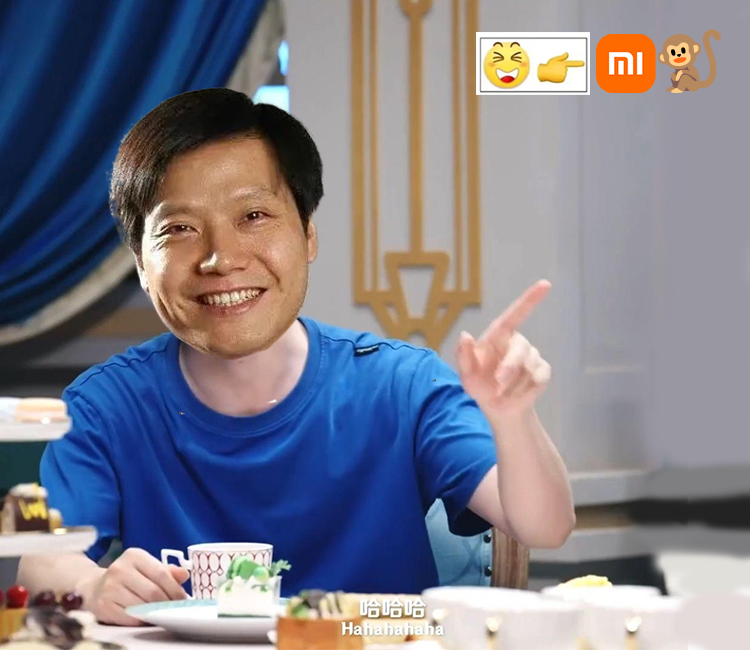
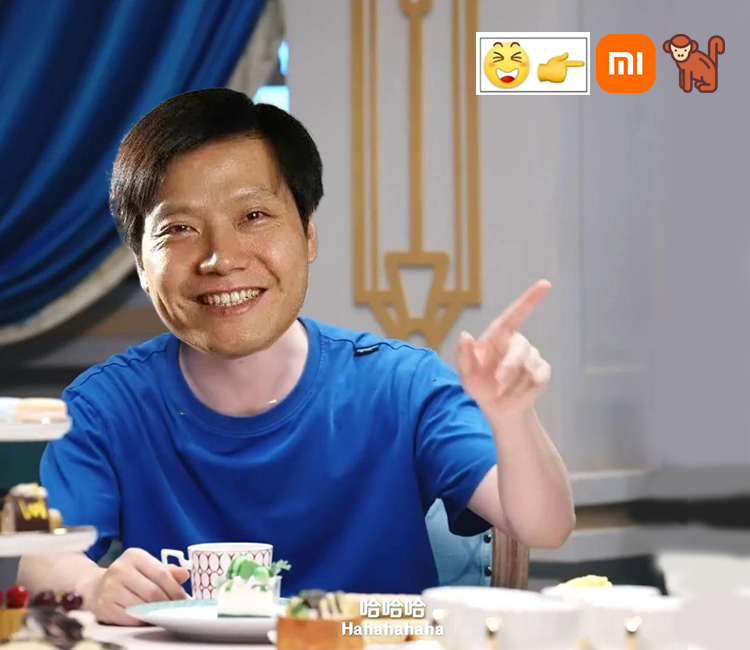
PS D:\meme> date 2025年9月23日 22:04:32 ➕😆 添加新表情 cat_lick 猫舔 ➕😆 添加新表情 horse_riding 骑马 ➕😆 添加新表情 happy_national_day 国庆节快乐 ➕😆 表情 github 改为 throwing_poop 扔史 ➕😆 添加新表情 mi_leijun_holdsign 雷军举牌 ➕😆 表情 mi_monkey 优化素材猴子图标

Changed region(s): [[0.8587, 0.0308, 0.9813, 0.1538]]

diff --git a/emoji/happy_national_day/__init__.py b/emoji/happy_national_day/__init__.py
@@ -1,0 +1,51 @@
+# 导入必要的模块
+from datetime import datetime
+from pathlib import Path
+
+from PIL.Image import Image as IMG  # 导入PIL的Image类并重命名为IMG
+from pil_utils import BuildImage  # 导入用于构建和操作图像的BuildImage类
+from meme_generator.tags import MemeTags
+
+from meme_generator import add_meme  # 导入添加meme模板的函数
+from meme_generator.utils import save_gif  # 导入保存GIF的函数
+
+# 获取当前文件所在目录的路径，并拼接images子目录路径
+img_dir = Path(__file__).parent / "images"
+
+def happy_national_day(images: list[BuildImage], texts, args):
+
+    user_head = images[0].resize((190, 160)).convert("RGBA") 
+    
+    # 初始化帧列表，用于存储每一帧图像
+    frames: list[IMG] = []
+
+    positions = [
+        (55, 92), (55, 81), (55, 76), (55, 84), 
+    ]
+
+    # 处理所有帧
+    for i in range(4):
+        frame_num = (i % 4) + 1
+        frame = BuildImage.open(img_dir / f"{frame_num}.png").convert("RGBA")
+        
+        # 创建一个新的图像，首先粘贴用户头像作为背景
+        new_frame = BuildImage.new("RGBA", frame.size)
+        new_frame.paste(user_head, positions[i], alpha=True)
+        
+        # 然后将原始帧内容粘贴到上面
+        new_frame.paste(frame, (0, 0), alpha=True)
+        
+        frames.append(new_frame.image)
+
+    # 将所有帧保存为GIF，帧间隔为0.08秒
+    return save_gif(frames, 0.08)
+
+add_meme(
+    "happy_national_day",  # 模板的唯一标识符
+    happy_national_day,  # 处理函数
+    min_images=1,  # 需要的最小图片数量
+    max_images=1,  # 需要的最大图片数量
+    keywords=["国庆快乐","国庆节快乐"],  # 搜索关键词
+    date_created=datetime(2025, 9, 13),  # 创建日期
+    date_modified=datetime(2025, 9, 13),  # 修改日期
+)

diff --git a/emoji/horse_riding/__init__.py b/emoji/horse_riding/__init__.py
@@ -1,0 +1,51 @@
+# 导入必要的模块
+from datetime import datetime
+from pathlib import Path
+
+from PIL.Image import Image as IMG  # 导入PIL的Image类并重命名为IMG
+from pil_utils import BuildImage  # 导入用于构建和操作图像的BuildImage类
+from meme_generator.tags import MemeTags
+
+from meme_generator import add_meme  # 导入添加meme模板的函数
+from meme_generator.utils import save_gif  # 导入保存GIF的函数
+
+# 获取当前文件所在目录的路径，并拼接images子目录路径
+img_dir = Path(__file__).parent / "images"
+
+def horse_riding(images: list[BuildImage], texts, args):
+
+    user_head = images[0].resize((58, 58)).convert("RGBA") 
+    
+    # 初始化帧列表，用于存储每一帧图像
+    frames: list[IMG] = []
+
+    positions = [
+        (76, 44), (81, 44), (100, 47), (101, 46),
+    ]
+
+    # 处理所有帧
+    for i in range(4):
+        frame_num = (i % 4) + 1
+        frame = BuildImage.open(img_dir / f"{frame_num}.png").convert("RGBA")
+        
+        # 创建一个新的图像，首先粘贴用户头像作为背景
+        new_frame = BuildImage.new("RGBA", frame.size)
+        new_frame.paste(user_head, positions[i], alpha=True)
+        
+        # 然后将原始帧内容粘贴到上面
+        new_frame.paste(frame, (0, 0), alpha=True)
+        
+        frames.append(new_frame.image)
+
+    # 将所有帧保存为GIF，帧间隔为0.06秒
+    return save_gif(frames, 0.01)
+
+add_meme(
+    "horse_riding",  # 模板的唯一标识符
+    horse_riding,  # 处理函数
+    min_images=1,  # 需要的最小图片数量
+    max_images=1,  # 需要的最大图片数量
+    keywords=["骑马"],  # 搜索关键词
+    date_created=datetime(2025, 9, 13),  # 创建日期
+    date_modified=datetime(2025, 9, 13),  # 修改日期
+)

diff --git a/emoji/throwing_poop/__init__.py b/emoji/throwing_poop/__init__.py
@@ -10,7 +10,7 @@ from meme_generator.utils import make_jpg_or_gif
 img_dir = Path(__file__).parent / "images"
 
 
-def github(images: list[BuildImage], texts: list[str], args: MemeArgsModel):
+def throwing_poop(images: list[BuildImage], texts: list[str], args: MemeArgsModel):
     frame = BuildImage.open(img_dir / "0.png")
 
     def make(imgs: list[BuildImage]) -> BuildImage:
@@ -23,7 +23,7 @@ def github(images: list[BuildImage], texts: list[str], args: MemeArgsModel):
         result = result.paste(img2, (310, 553), alpha=True, below=True)
         
         # 第三个头像尺寸和坐标（更小，放在另一个位置）
-        img3 = imgs[0].convert("RGBA").resize((108, 108)).rotate(15, expand=True)
+        img3 = imgs[0].convert("RGBA").resize((108, 108)).rotate(20, expand=True)
         result = result.paste(img3, (297, 1003), alpha=True, below=True)
         
         return result
@@ -32,13 +32,13 @@ def github(images: list[BuildImage], texts: list[str], args: MemeArgsModel):
 
 
 add_meme(
-    "github",
-    github,
+    "throwing_poop",
+    throwing_poop,
     min_images=1,
     max_images=1,
     min_texts=0,
     max_texts=0,
-    keywords=["Github", "github"],
+    keywords=["扔史"],
     date_created=datetime(2025, 9, 21),
-    date_modified=datetime(2025, 9, 21),
+    date_modified=datetime(2025, 9, 23),
 )

diff --git a/emoji/mi_leijun_holdsign/__init__.py b/emoji/mi_leijun_holdsign/__init__.py
@@ -1,0 +1,41 @@
+from datetime import datetime
+from pathlib import Path
+
+from pil_utils import BuildImage
+
+from meme_generator import add_meme
+from meme_generator.exception import TextOverLength
+from meme_generator.tags import MemeTags
+
+img_dir = Path(__file__).parent / "images"
+
+
+def mi_leijun_holdsign (images, texts: list[str], args):
+    text = texts[0]
+    frame = BuildImage.open(img_dir / "0.jpg")
+    try:
+        frame.draw_text(
+            (448, 943, 1598, 1572),
+            text,
+            fill=(0, 0, 0),
+            allow_wrap=True,
+            max_fontsize=220,
+            min_fontsize=30,
+            lines_align="center",
+            font_families=["FZShaoEr-M11S"],
+        )
+    except ValueError:
+        raise TextOverLength(text)
+    return frame.save_jpg()
+
+
+add_meme(
+    "mi_leijun_holdsign",
+    mi_leijun_holdsign,
+    min_texts=1,
+    max_texts=1,
+    default_texts=["Are you OK ?"],
+    keywords=["雷军举牌"],
+    date_created=datetime(2025, 9, 23),
+    date_modified=datetime(2025, 9, 23),
+)
